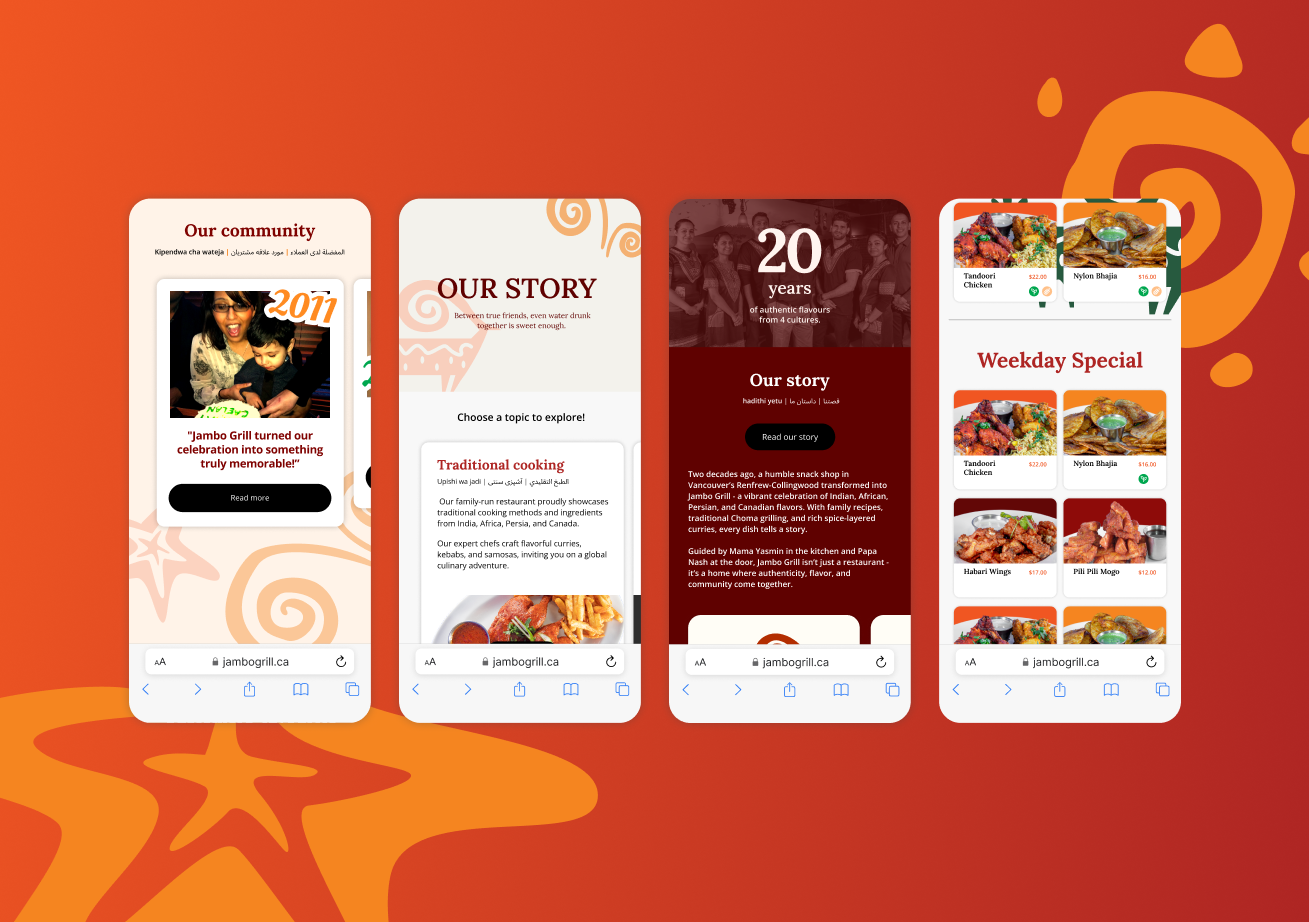
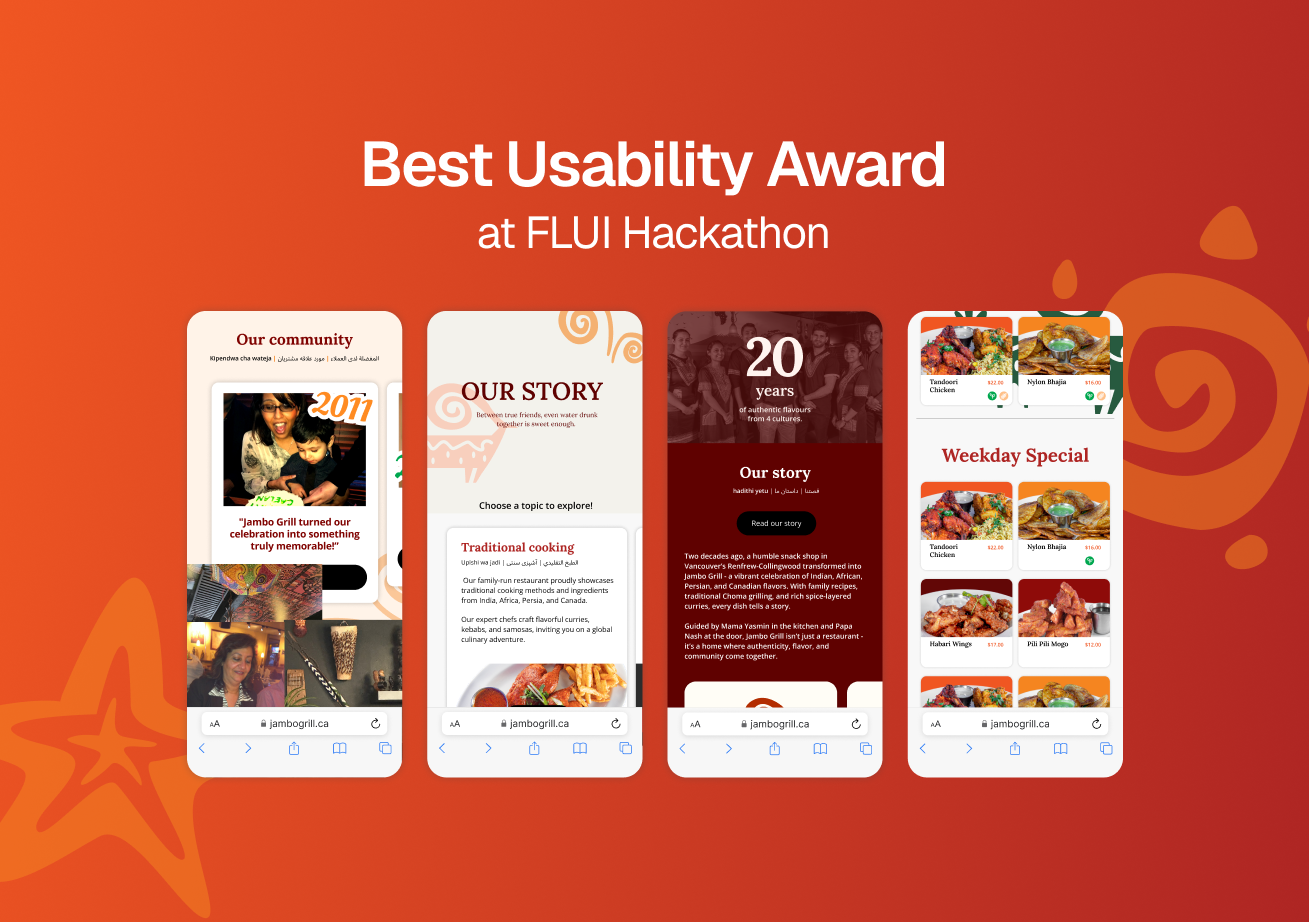
jambo

diff --git a/index.html b/index.html
@@ -86,7 +86,6 @@
       <div class="homepage-project-info-container">
         <p class="homepage-project-info">UX design & research</p>
         <p class="homepage-project-info info-margin-left">1.5 month</p>
-        <!-- <p class="homepage-project-info info-margin-left">B2C</p> -->
         <p class="homepage-project-info info-margin-left">UX designer & researcher</p>
         <p class="homepage-project-info info-margin-left">Figma</p>
       </div>
@@ -102,7 +101,6 @@
       <div class="homepage-project-info-container">
         <p class="homepage-project-info">UX design & research</p>
         <p class="homepage-project-info info-margin-left">2 months</p>
-        <!-- <p class="homepage-project-info info-margin-left">B2C</p> -->
         <p class="homepage-project-info info-margin-left">UX designer & researcher</p>
         <p class="homepage-project-info info-margin-left">ProtoPie</p>
       </div>
@@ -119,7 +117,6 @@
       <div class="homepage-project-info-container">
         <p class="homepage-project-info">Graphic design</p>
         <p class="homepage-project-info info-margin-left">8 months (co-op)</p>
-        <!-- <p class="homepage-project-info info-margin-left">B2B2C</p> -->
         <p class="homepage-project-info info-margin-left">Graphic designer</p>
         <p class="homepage-project-info info-margin-left">Adobe Illustrator & Adobe After Effects</p>
       </div>
@@ -135,7 +132,6 @@
       <div class="homepage-project-info-container">
         <p class="homepage-project-info">UX design & design system</p>
         <p class="homepage-project-info info-margin-left">Duration TBD</p>
-        <!-- <p class="homepage-project-info info-margin-left">B2B2C</p> -->
         <p class="homepage-project-info info-margin-left">UX designer</p>
         <p class="homepage-project-info info-margin-left">Figma & Adobe After Effects</p>
       </div>
@@ -146,8 +142,8 @@
       <p class="homepage-project-des">Helping content creators to understand personal growth, cross-platform analytics, revenue, & brand partnerships in 1 dashboard.</p>
     </section>
 
-    <!-- <section class="project-section">
-      <p class="homepage-project-name grey-mobile">Jambo Grill (coming soon) <span class="text-arrow">&#8594;</span></p>
+    <section class="project-section">
+      <p class="homepage-project-name grey-mobile">Jambo Grill (coming soon 🔐) <span class="text-arrow">&#8594;</span></p>
       <div class="homepage-project-info-container">
         <p class="homepage-project-info">UX design & illustration</p>
         <p class="homepage-project-info info-margin-left">3 days (hackathon)</p>
@@ -158,8 +154,8 @@
         <img class="homepage-project-image" id="jackalope-cover-1" src="img/jambo-cover-1.png" width="4104" height="1464">
         <img class="homepage-project-image" id="jackalope-cover-2" src="img/jambo-cover-2.png" width="1309" height="922">
       </a>
-      <p class="homepage-project-des">Redesigned the website for a Persian & African family-owned restaurant, winning the Usability Award at FLUI 2025 Design Hackathon with more than 200 contestants.</p>
-    </section> -->
+      <p class="homepage-project-des">Redesigned the website for a Persian & African family-owned restaurant with a traditional yet modern touch.</p>
+    </section>
 
 
     <section class="project-section">
